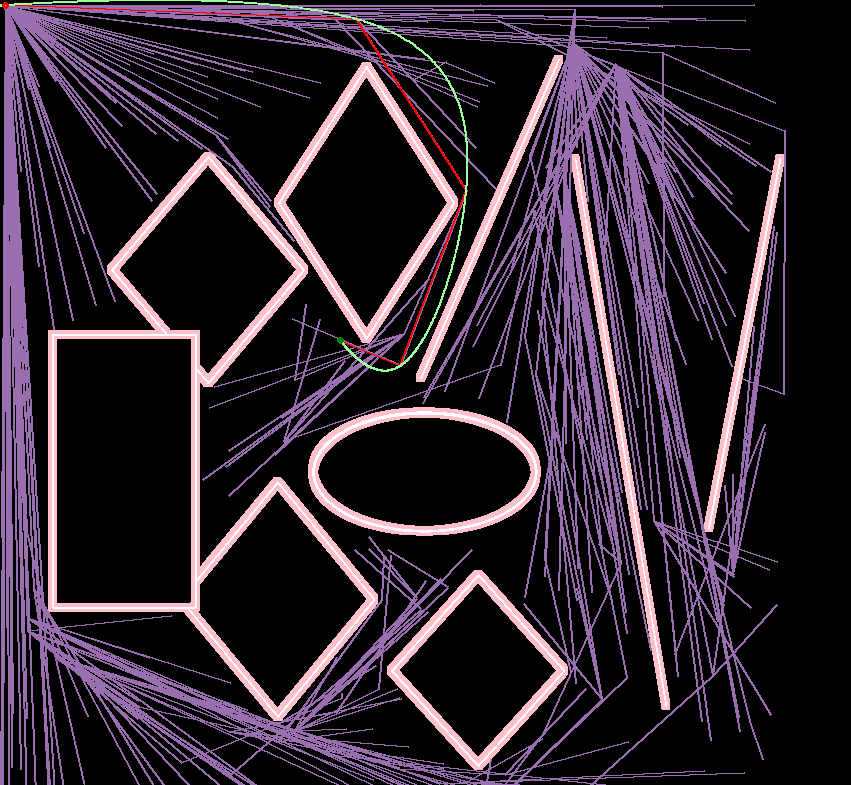
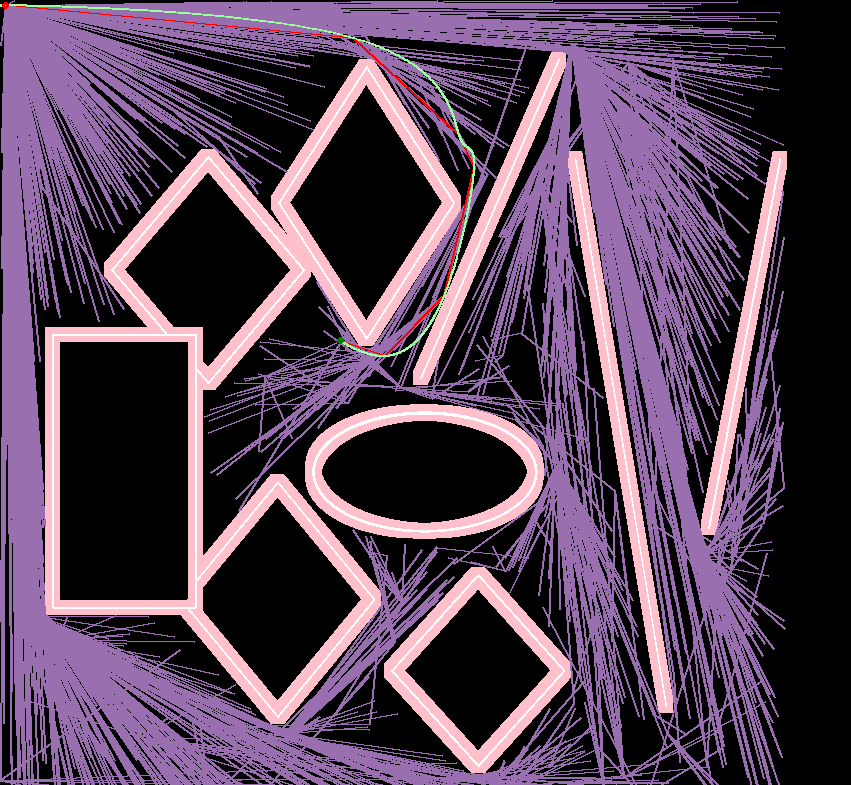
Added padding.

diff --git a/config.py b/config.py
@@ -1,21 +1,20 @@
-from global_sim.algorithm import rrt_sid, rrt_star
 from type_hints.types import Node
 
 # Algorithm - rrt_star or rrt_sid
 algo: str = "rrt_sid"
 
-iters: int = 500
+iters: int = 2000
 start_node: Node = (5, 5)
 end_node: Node = (340, 340)
 initial_generate_dist: int = 50  # Sometimes, increasing leads to reaching farther areas
-padding: int = 4
+padding: int = 7
 
 # Render
 map_bw_reverse: bool = False  # Reverse black and white in obstacle readings
 display_end: bool = False  # Display final image when program finished
 
 # Debug
-debug: bool = True  # Run while program running
+debug: bool = False  # Run while program running
 debug_time: float = 0  # Time to wait after every frame displayed in seconds
 debug_iters: int = 50  # Display frame ever 'debug_iters' iters
 

diff --git a/utils/render.py b/utils/render.py
@@ -7,6 +7,7 @@ from utils.spline import smooth_path, convert_to_coordinates
 white = (255, 255, 255, 255)
 black = (0, 0, 0, 255)
 red = (255, 0, 0, 100)
+blue = (0, 0, 255, 100)
 purple = (83, 11, 120, 150)
 purple2 = (106, 12, 153, 100)
 green = (0, 255, 0, 100)
@@ -239,6 +240,6 @@ def render_local_path_on_image(path, input_image, output_image):
         start = path[i][0], path[i][1]
         end = path[i+1][0], path[i+1][1]
 
-        draw.line([start, end], fill=pink, width=2)
+        draw.line([start, end], fill=blue, width=4)
 
     img.save(output_image)
